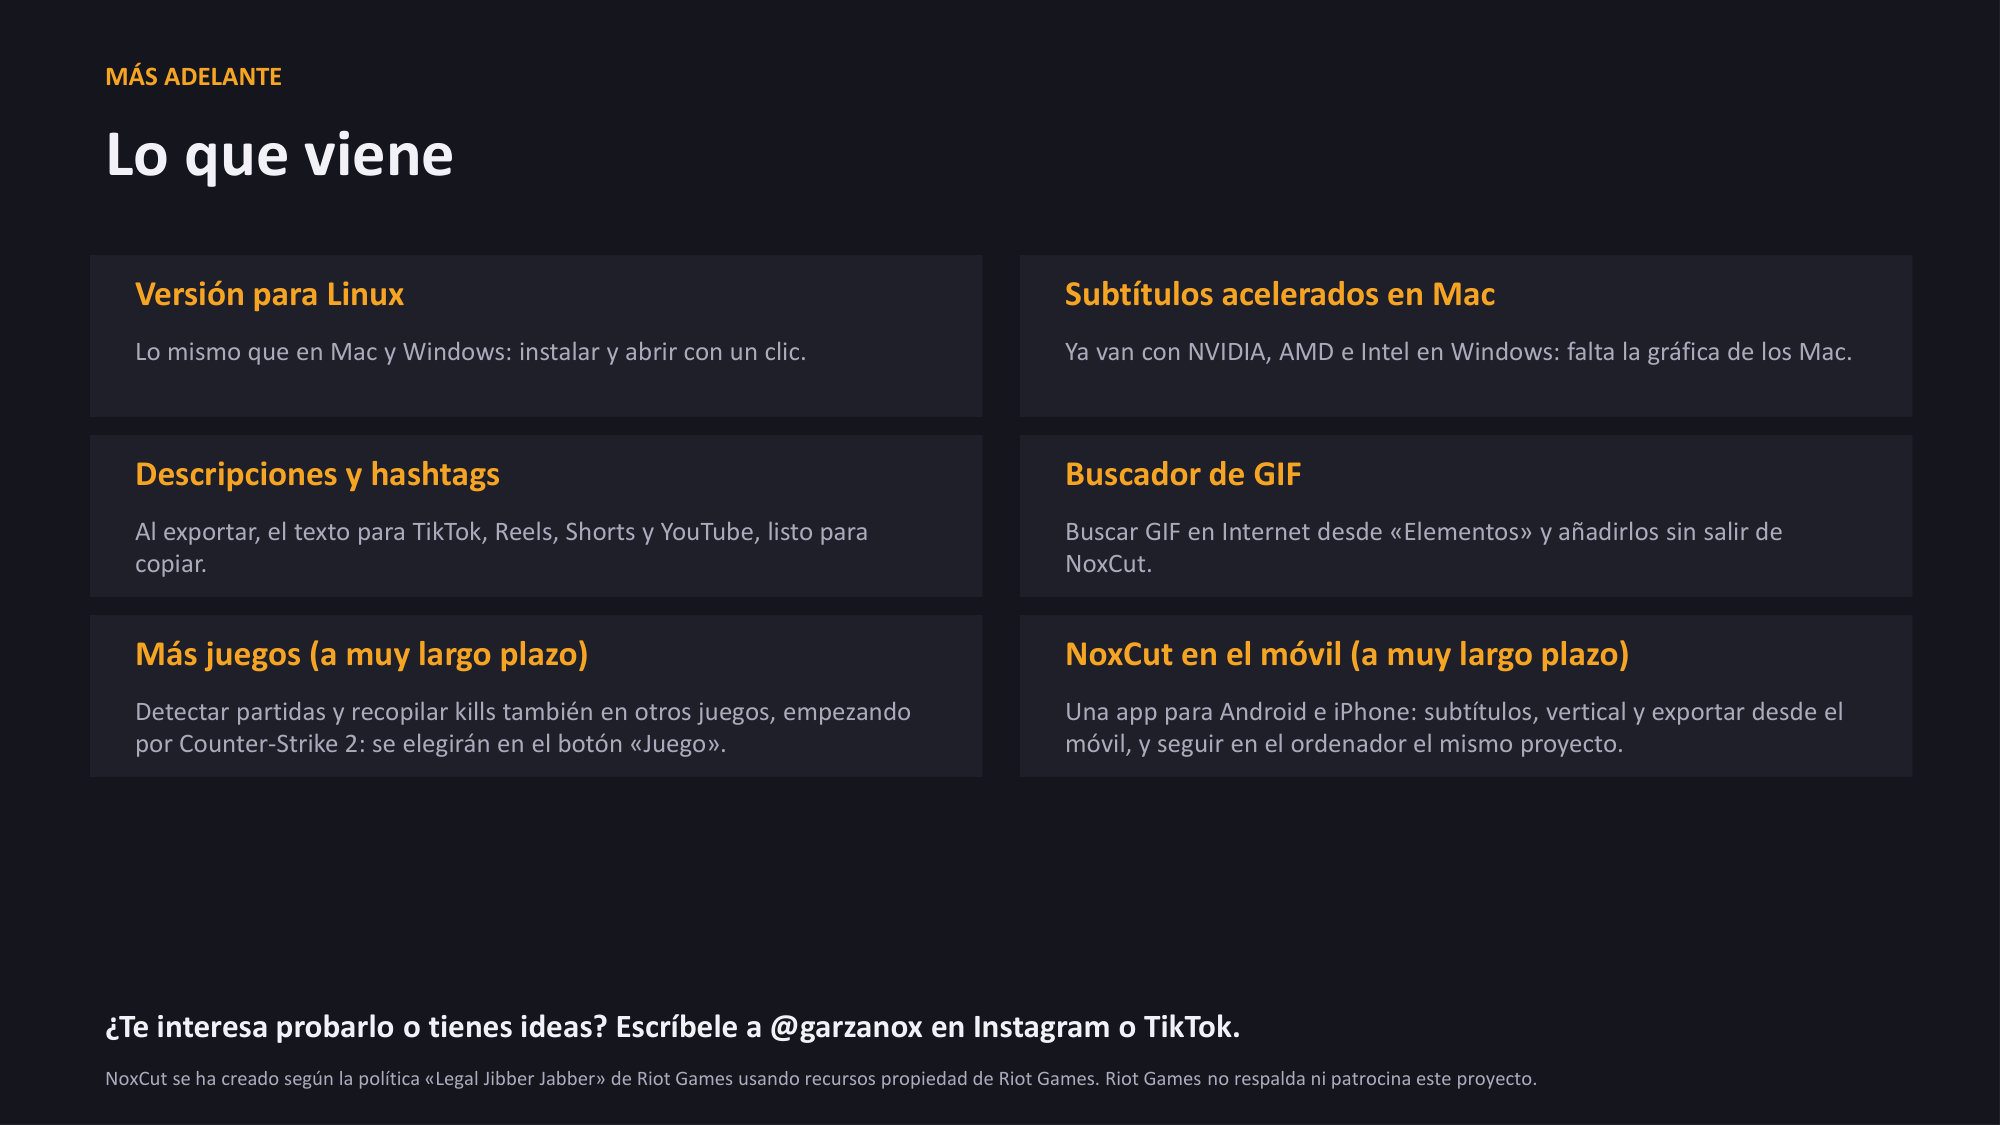
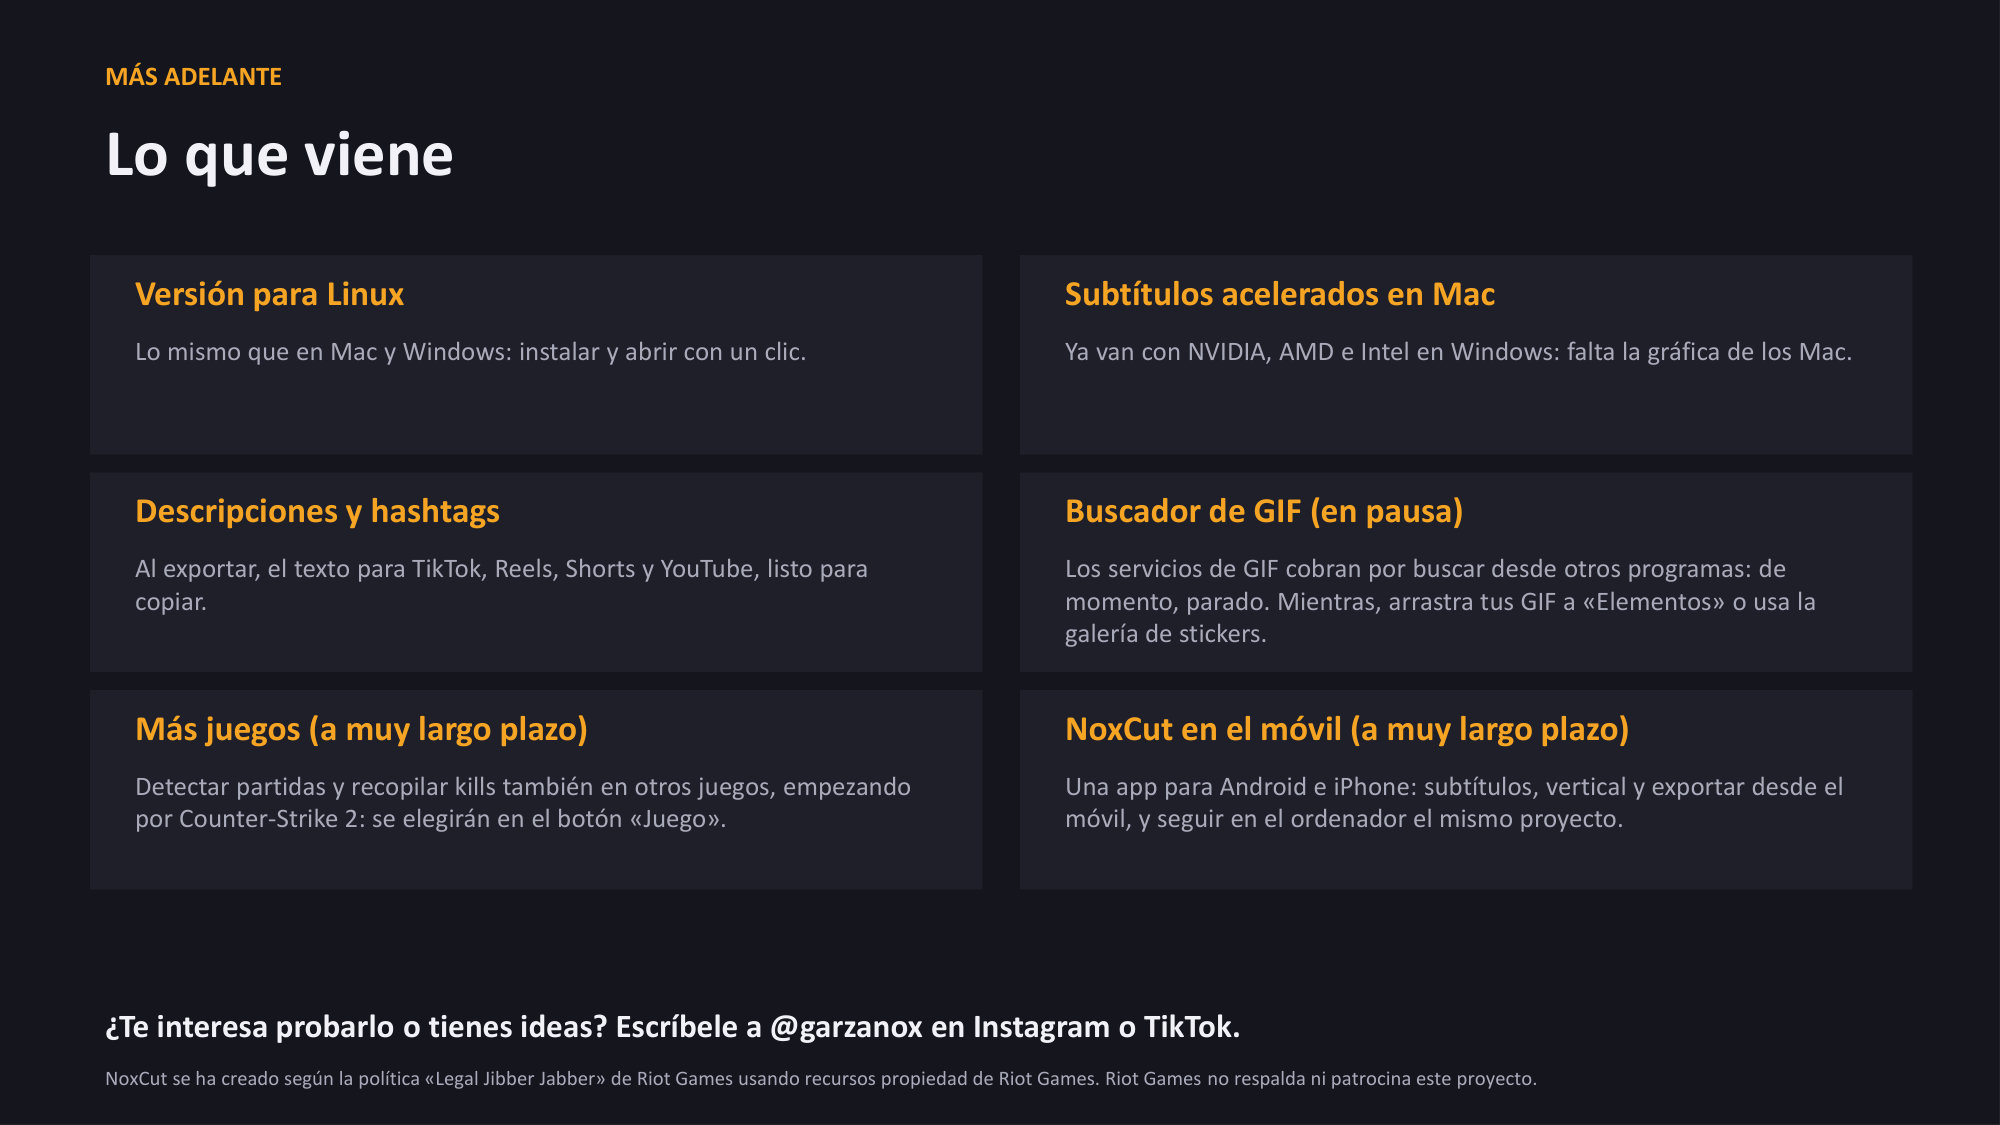
Presentación actualizada (13/11/2026)

diff --git a/index.html b/index.html
@@ -96,7 +96,7 @@ button:focus-visible { outline: 2px solid var(--amber); outline-offset: 2px; }
     <img src="diapositivas/27.jpg?v=250ffc246a" alt="Diapositiva 27: CÓMO SE HA HECHO 13 días, 153 avances 30/10 · 14:07 Primera exportación 30/10 · 16:27 Estilos y modo pop 30/10 · 21:02 Montaje 31/10 · 11:30 Generar cortes 31/1">
     <img src="diapositivas/28.jpg?v=6861a237fc" alt="Diapositiva 28: RESULTADOS En números 13 días del prototipo a editor de vídeo (30/10 a 13/11/2026) 153 avances en la cronología, cada uno probado 13 s para encontrar las 11 par">
     <img src="diapositivas/29.jpg?v=496618f5ab" alt="Diapositiva 29: LA PRÓXIMA VERSIÓN En camino (desde el 13/11) Signos y mayúsculas a tu gusto Eliges qué signos salen en los subtítulos (puntos, comas, interrogaciones, exclamac">
-    <img src="diapositivas/30.jpg?v=297e7d66ae" alt="Diapositiva 30: MÁS ADELANTE Lo que viene Versión para Linux Lo mismo que en Mac y Windows: instalar y abrir con un clic. Subtítulos acelerados en Mac Ya van con NVIDIA, AMD e ">
+    <img src="diapositivas/30.jpg?v=f92cf4c380" alt="Diapositiva 30: MÁS ADELANTE Lo que viene Versión para Linux Lo mismo que en Mac y Windows: instalar y abrir con un clic. Subtítulos acelerados en Mac Ya van con NVIDIA, AMD e ">
     <button class="side prev" id="sidePrev" aria-label="Diapositiva anterior"></button>
     <button class="side next" id="sideNext" aria-label="Diapositiva siguiente"></button>
   </div>
